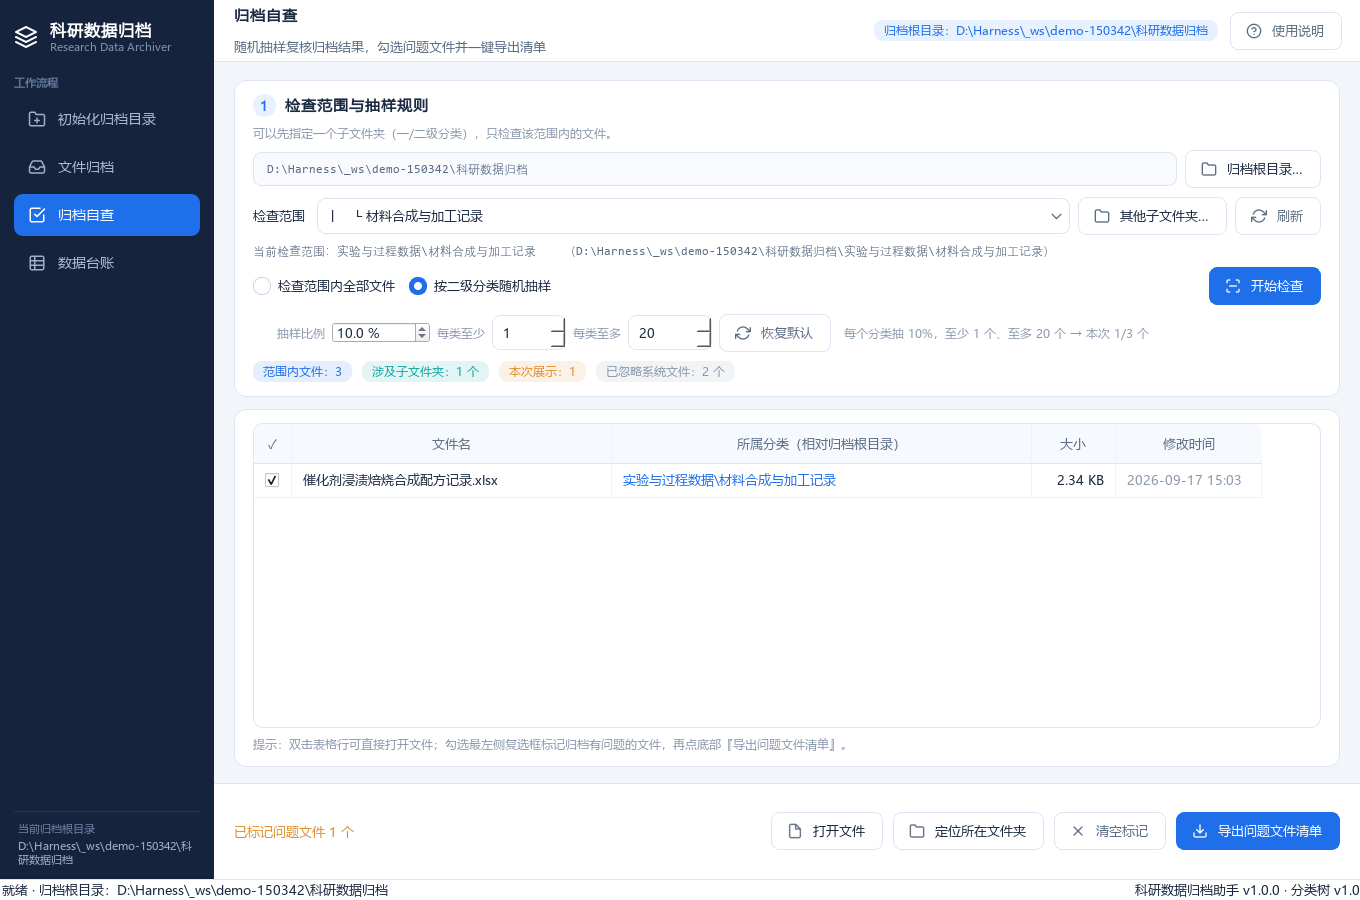
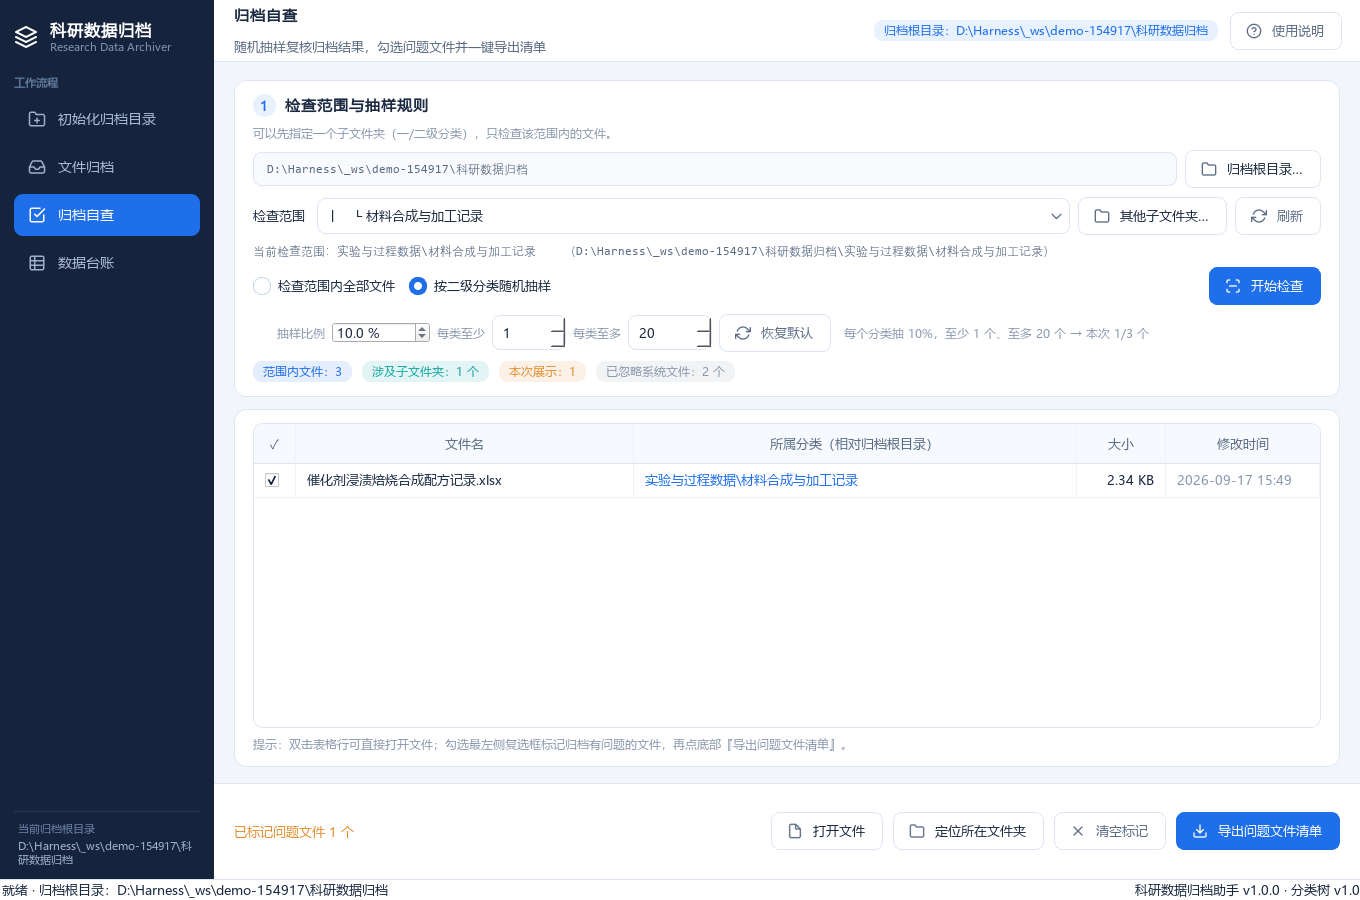
表格列宽改为按比例铺满，不再留右侧空白
- 移除占位列后，改为按列权重分配视口宽度：总和恒等于视口宽
- 拖动某一列时，其余列按原比例吸收差额，不会出现横向滚动条
- 台账表设计列宽调匀，避免窄列被压到最小宽度

diff --git a/app.py b/app.py
@@ -123,15 +123,24 @@ def _tint(hexcolor: str) -> str:
 
 class _FlexCols:
     """
-    列宽全部可手动拖动调整。
+    列宽既能在表头拖动，又始终按比例铺满可视宽度。
 
-    只把表头设成 Interactive 就够了 —— 不要额外加"占位列"。
-    Qt 的占位列会在表头多出一个空白格子，看起来像多出一栏，
-    用户会以为那是没用的空列（实测反馈）。
-    列比视口窄时右侧余白由视图背景填充，行底色/选中高亮本来就会铺满整行，不影响观感。
+    为什么不用「占位列」：Qt 会给占位列也画一个表头格子，看起来像多出一栏（实测反馈），
+    而且它只是把空白"藏"进了一个假列，并不能让真实列变宽。
+
+    这里的做法是记录每列的**权重**：
+      * 视口尺寸变化 → 按权重等比重新分配，总宽恒等于视口宽；
+      * 用户拖动某一列 → 该列直接取用户给的宽度，其余列按原比例吸收差额，
+        所以总宽依旧等于视口宽（既没有右侧留白，也不会冒出横向滚动条）。
+    初始权重取各页在设计时设定的列宽，因此各列的相对宽窄关系保持不变。
     """
 
-    def _init_flex(self, real_cols: int, min_w: int = 34):
+    def _init_flex(self, real_cols: int, min_w: int = 40):
+        self._flex_n = real_cols
+        self._flex_min = min_w
+        self._flex_w = None            # 各列权重；首次显示时用设计列宽初始化
+        self._flex_busy = False
+        self._flex_ready = False       # 首次显示前的 setColumnWidth 是初始化，不算用户拖动
         # QTableWidget 用 horizontalHeader()，QTreeWidget 用 header()
         hh = (self.horizontalHeader() if hasattr(self, "horizontalHeader")
               else self.header())
@@ -139,7 +148,80 @@ class _FlexCols:
         hh.setStretchLastSection(False)
         hh.setMinimumSectionSize(min_w)
         hh.setSectionsClickable(True)
-        hh.setToolTip("拖动表头列与列之间的分隔线即可调整列宽")
+        hh.setToolTip("拖动表头列与列之间的分隔线即可调整列宽；表格始终铺满窗口宽度")
+        hh.sectionResized.connect(self._on_flex_resized)
+        try:
+            self.verticalScrollBar().rangeChanged.connect(lambda *_: self._flex_fill())
+        except AttributeError:
+            pass
+
+    # ------------------------------------------------------------------ 内部
+    def _flex_widths(self, vp: int) -> List[int]:
+        """按权重把 vp 像素分给各列，总和尽量正好等于 vp，并尊重最小列宽。"""
+        n = self._flex_n
+        w = self._flex_w or [1.0] * n
+        total = sum(w) or 1.0
+        out = [max(self._flex_min, int(round(vp * x / total))) for x in w]
+        diff = vp - sum(out)
+        if diff:
+            # 取整误差补到最宽的那一列，避免出现 1px 的缝隙
+            i = max(range(n), key=lambda k: out[k])
+            out[i] = max(self._flex_min, out[i] + diff)
+        return out
+
+    def _flex_fill(self):
+        if self._flex_busy or self._flex_n <= 0:
+            return
+        vp = self.viewport().width()
+        if vp <= 20:
+            return
+        if self._flex_w is None:
+            self._flex_w = [max(1.0, float(self.columnWidth(i)))
+                            for i in range(self._flex_n)]
+        widths = self._flex_widths(vp)
+        if all(self.columnWidth(i) == widths[i] for i in range(self._flex_n)):
+            return
+        self._flex_busy = True
+        for i, wd in enumerate(widths):
+            self.setColumnWidth(i, wd)
+        self._flex_busy = False
+
+    def _on_flex_resized(self, index, _old, new):
+        if self._flex_busy or not self._flex_ready or index >= self._flex_n:
+            return
+        vp = self.viewport().width()
+        if vp <= 20:
+            return
+        if self._flex_w is None:
+            self._flex_w = [max(1.0, float(self.columnWidth(i)))
+                            for i in range(self._flex_n)]
+        others = [i for i in range(self._flex_n) if i != index]
+        if not others:
+            return
+        cur = [max(1.0, float(self.columnWidth(i))) for i in range(self._flex_n)]
+        others_sum = sum(cur[i] for i in others)
+        # 拖动列拿到用户要的宽度，剩下的宽度由其它列按原比例分摊
+        rest = max(float(self._flex_min) * len(others), vp - float(new))
+        k = rest / others_sum if others_sum > 0 else 1.0
+        w = [0.0] * self._flex_n
+        w[index] = max(float(self._flex_min), float(new))
+        for i in others:
+            w[i] = max(1.0, cur[i] * k)
+        self._flex_w = w
+        self._flex_fill()
+
+    # ------------------------------------------------------------------ 事件
+    def resizeEvent(self, e):
+        super().resizeEvent(e)
+        self._flex_fill()
+
+    def showEvent(self, e):
+        super().showEvent(e)
+        if not self._flex_ready:
+            self._flex_w = [max(1.0, float(self.columnWidth(i)))
+                            for i in range(self._flex_n)]
+            self._flex_ready = True
+        self._flex_fill()
 
 
 class CatTree(_FlexCols, QTreeWidget):
@@ -1750,7 +1832,8 @@ class LedgerPage(QWidget):
         self.tb.setEditTriggers(QAbstractItemView.NoEditTriggers)
         self.tb.setSelectionBehavior(QAbstractItemView.SelectRows)
         self.tb.setMinimumHeight(170)
-        for i, w in enumerate((170, 152, 176, 52, 84, 92, 150, 84, 260, 240)):
+        # 设计列宽只决定各列的相对比例（表格始终铺满窗口，会按比例缩放）
+        for i, w in enumerate((160, 150, 168, 58, 86, 92, 140, 84, 230, 200)):
             self.tb.setColumnWidth(i, w)
         c2.body.addWidget(self.tb, 1)
         self.lb_tip = QLabel("提示：上表是台账的汇总视图；完整 30 列数据在 "
